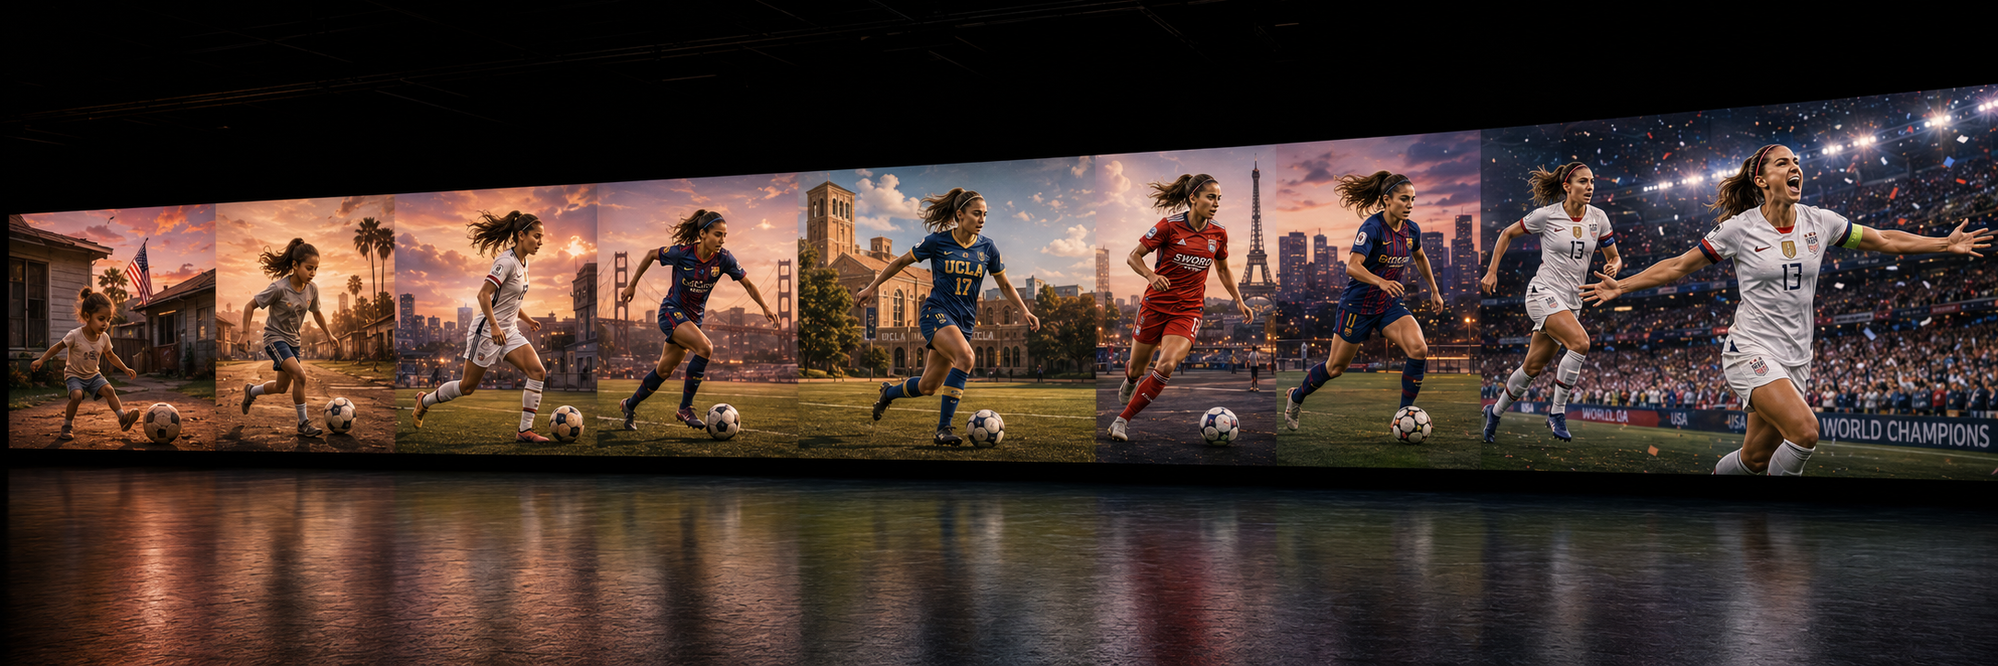
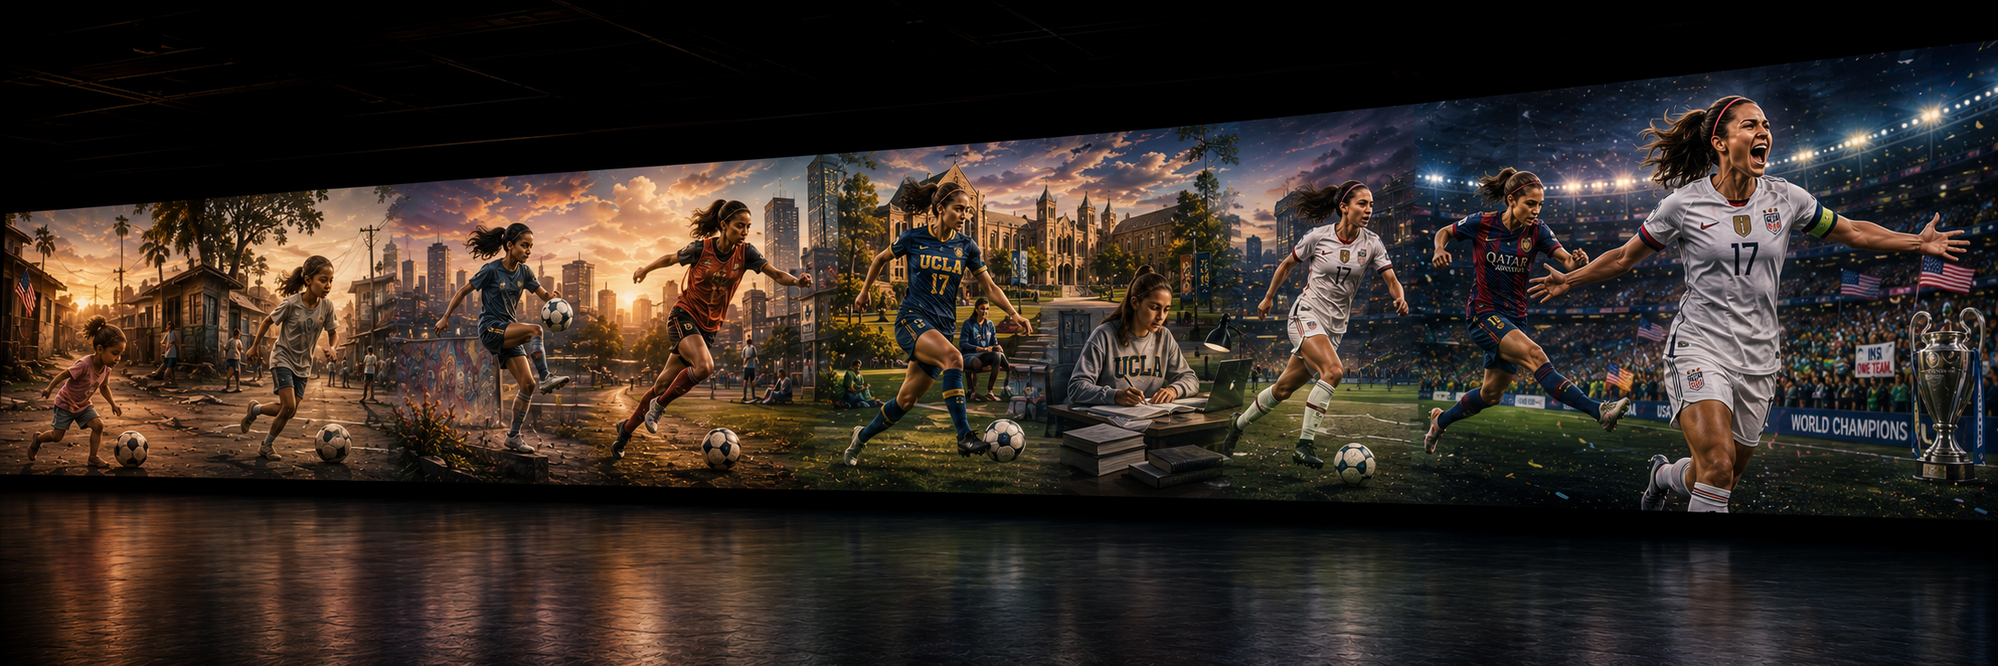
swap women's origin panorama to image #23 (richer arc with study scene + trophy)

diff --git a/index.html b/index.html
@@ -261,7 +261,7 @@
     </div>
 
     <div class="visual" style="margin-top:36px">
-      <img src="images/origins-women.png" alt="Wide panorama showing a woman player's history from a toddler kicking a ball outside an American clapboard house with a US flag, through running down a dirt road, a teen player in front of the Golden Gate Bridge, a UCLA college kit, a red European club kit with the Eiffel Tower, an FC Barcelona-style kit, to a USA national-team #13 celebrating a World Champions moment in front of a stadium crowd.">
+      <img src="images/origins-women.png" alt="Wide panorama showing a woman player's history from a toddler in pink kicking a ball outside a clapboard house with a US flag, through a kid running on a dirt road, a teen player against a sunset city skyline, a red European youth kit, a UCLA #17 college kit on a campus pitch, a study scene with a UCLA sweatshirt and laptop, a USA #17 white national kit, an FC Barcelona / Qatar Airways red-and-blue club kit, and ending in a USA #17 World Champions celebration with a trophy and 'WORLD CHAMPIONS' banner.">
     </div>
     <div class="visual-caption">
       <span><b>Origin story · women's arc</b> · backyard to World Champions across one wall</span>
